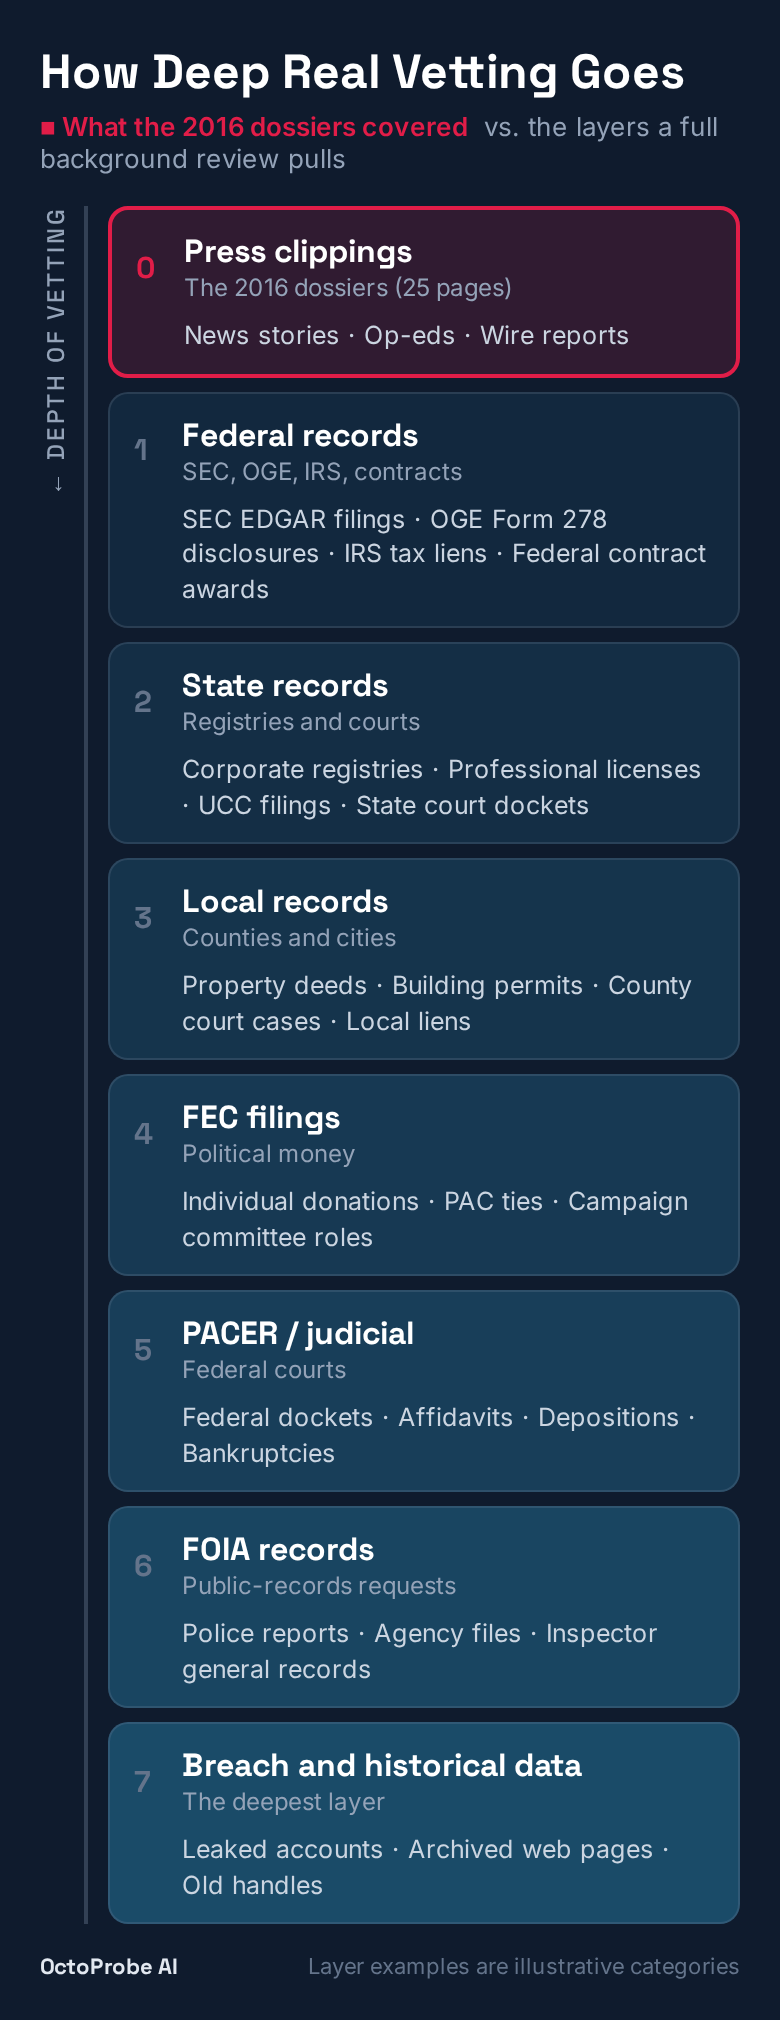
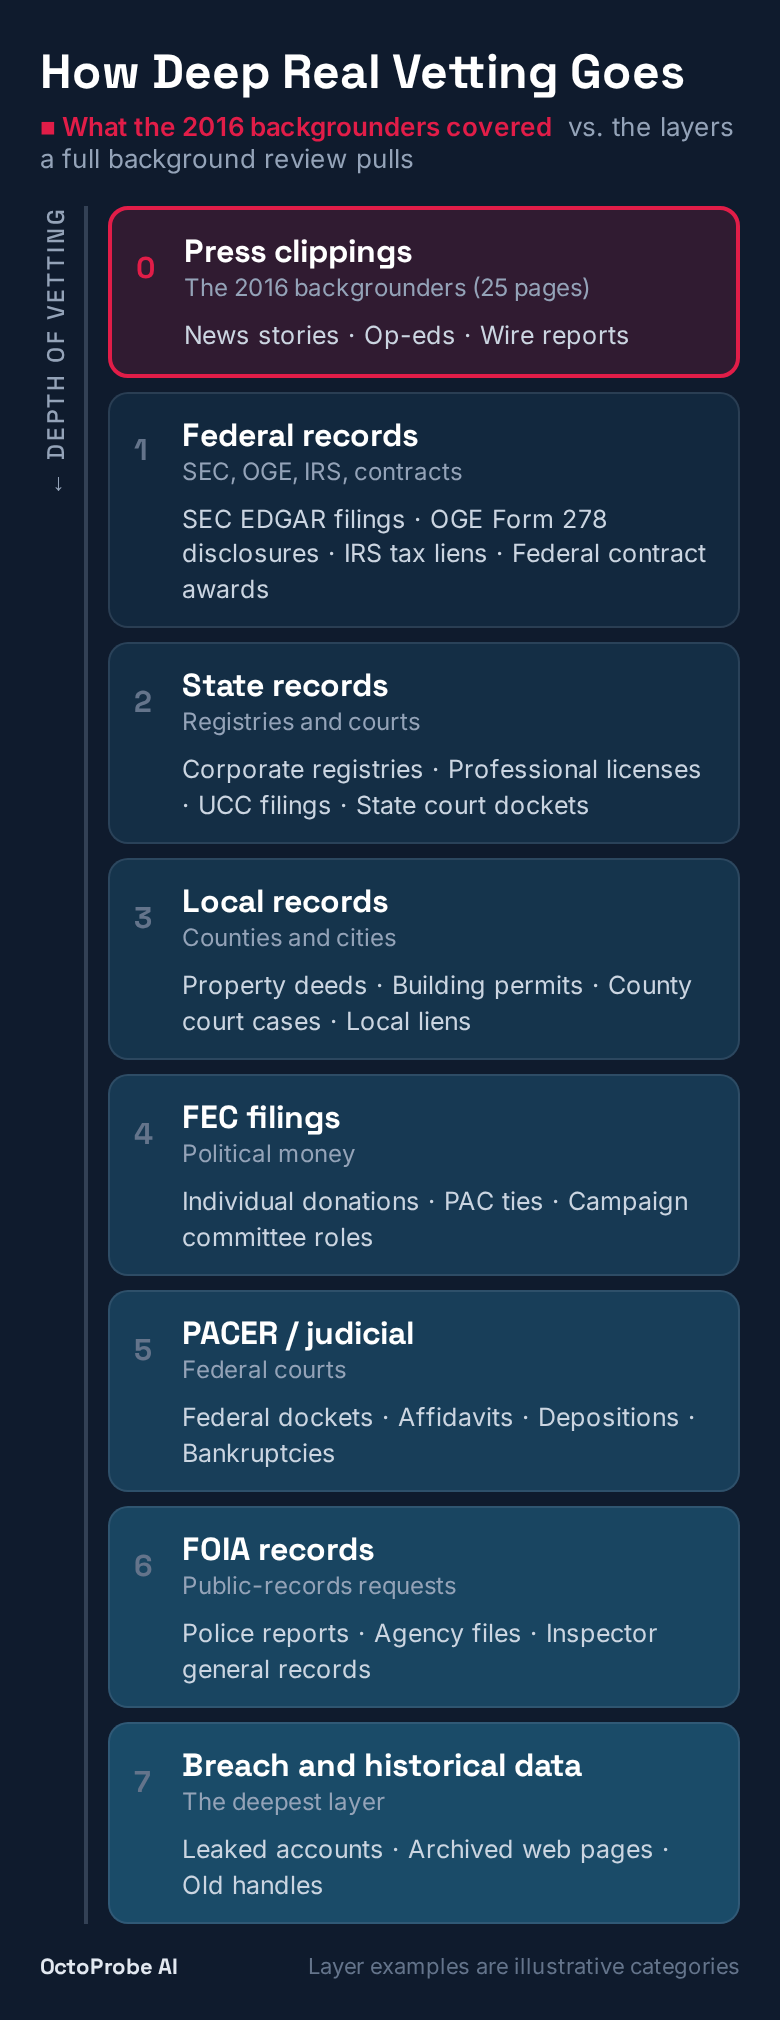
Blog: remove "dossier" site-wide (White House vetting post, identifier-graph post, blog index, llms.txt)
- White House vetting post: neutral wording ("business-ties research file",
  "file", "2016 backgrounders") in keywords meta, og:image:alt, alt text,
  captions, body and PDF embed labels.
- Rename giuliani-dossier-page-1.png -> giuliani-business-ties-research-page-1.png
  and giuliani-business-ties-dossier.pdf -> giuliani-business-ties-research.pdf;
  update every reference (img src, JSON-LD image, PDF embed/download links).
- Regenerate the 'How Deep Real Vetting Goes' infographic (desktop + mobile)
  with "backgrounders" in place of "dossiers".
- Identifier-graph post (md + html): "complete dossier" -> "complete picture".
- Blog index card and llms.txt (+ .well-known copy) wording.

DDoSecrets source URLs (RUDY%20GIULIANI%20...%20DOSSIER.pdf) are external and
unchanged, as is the source document's own title printed on page 1.

diff --git a/blog/white-house-vetting-leak-press-clips/index.html b/blog/white-house-vetting-leak-press-clips/index.html
@@ -5,7 +5,7 @@
 <meta name="viewport" content="width=device-width, initial-scale=1.0">
 <title>25 Pages of Press Clips: Thin White House Vetting · OctoProbe News</title>
 <meta name="description" content="Leaked transition files show White House vetting ran on 25-page clippings files, while the clearance system rewards speed and contracts over depth. Here is what real vetting pulls.">
-<meta name="keywords" content="Presidential Personnel Office, PPO, vetting, Trump transition leak, DDoSecrets, Giuliani dossier, security clearance, Tier 5, SF 86, OSINT">
+<meta name="keywords" content="Presidential Personnel Office, PPO, vetting, Trump transition leak, DDoSecrets, Giuliani business-ties research, security clearance, Tier 5, SF 86, OSINT">
 <meta name="author" content="Colin Aamot">
 <link rel="alternate" type="text/plain" title="LLM context (llms.txt)" href="/llms.txt">
 <link rel="alternate" type="text/plain" title="AI discovery (ai.txt)" href="/ai.txt">
@@ -18,7 +18,7 @@
 <meta property="og:image" content="https://www.octoprobe.ai/blog/white-house-vetting-leak-press-clips/assets/cover.png">
 <meta property="og:image:width" content="2400">
 <meta property="og:image:height" content="1260">
-<meta property="og:image:alt" content="25 Pages of Press Clips: page one of the leaked Giuliani dossier over a map of Washington">
+<meta property="og:image:alt" content="25 Pages of Press Clips: page one of the leaked Giuliani business-ties research file over a map of Washington">
 <meta property="article:published_time" content="2026-10-16">
 <meta property="article:modified_time" content="2026-10-16">
 <meta name="twitter:card" content="summary_large_image">
@@ -60,7 +60,7 @@
   },
   "image": [
     "https://www.octoprobe.ai/blog/white-house-vetting-leak-press-clips/assets/cover.png",
-    "https://www.octoprobe.ai/blog/white-house-vetting-leak-press-clips/assets/giuliani-dossier-page-1.png",
+    "https://www.octoprobe.ai/blog/white-house-vetting-leak-press-clips/assets/giuliani-business-ties-research-page-1.png",
     "https://www.octoprobe.ai/blog/white-house-vetting-leak-press-clips/assets/vetting-data-layers-depth-infographic.png"
   ],
   "mainEntityOfPage": {
@@ -235,10 +235,10 @@
   <article class="post-body">
     <div class="wrap">
       <div class="prose">
-<figure><img width="2400" height="1260" alt="Cover: 25 Pages of Press Clips headline beside page one of the leaked Giuliani business-ties dossier over a dark map of Washington, D.C." src="assets/cover.png" /><figcaption>Cover. Page one of the leaked Giuliani dossier over a map of Washington. Map &copy; OpenStreetMap contributors.</figcaption></figure>
+<figure><img width="2400" height="1260" alt="Cover: 25 Pages of Press Clips headline beside page one of the leaked Giuliani business-ties research file over a dark map of Washington, D.C." src="assets/cover.png" /><figcaption>Cover. Page one of the leaked Giuliani research file over a map of Washington. Map &copy; OpenStreetMap contributors.</figcaption></figure>
 <p class="answer-first">The White House vetted its 2016 appointees with newspaper clippings. Leaked transition files prove it. And the federal system meant to dig deeper rewards speed and contracts over depth.</p>
 <p>The Presidential Personnel Office (PPO), the White House shop that recruits and screens political appointees, controls more than four thousand jobs. Its 2016 files are public. They show a process built for speed, not depth.</p>
-<p>Take Rudy Giuliani. His business-ties dossier runs twenty-five pages. Nearly every line is a quote from a news story.</p>
+<p>Take Rudy Giuliani. His business-ties research file runs twenty-five pages. Nearly every line is a quote from a news story.</p>
 <h2>The Leak</h2>
 <p>Distributed Denial of Secrets (DDoSecrets), a nonprofit that archives leaked data, posted the set. It describes the files as &ldquo;<a href="https://ddosecrets.org/article/trump-transition-leak#:~:text=Dozens%20of%20documents%20from%20the%20Trump%20administration%20transition%2C%20including%20backgrounds%20and%20opposition">Dozens of documents from the Trump administration transition, including backgrounds and opposition research on potential Trump appointees.</a>&rdquo;</p>
 <p><em>Axios</em> first reported on the documents in 2019. It wrote that &ldquo;<a href="https://www.axios.com/2019/06/23/donald-trump-presidential-transition-vetting-rnc#:~:text=Trump%27s%20frazzled%20transition%20team%20foisted%20the%20job%20of%20political%20vetting%20onto%20the">Trump's frazzled transition team foisted the job of political vetting onto the Republican National Committee.</a>&rdquo;</p>
@@ -250,13 +250,13 @@
 <p>The RNC pushed back. Spokesman Mike Reed said: &ldquo;<a href="https://www.axios.com/2019/06/23/donald-trump-presidential-transition-vetting-rnc#:~:text=Individuals%20selected%20for%20high-level%20administration%20jobs%20would%20have%20gone%20through%20more%20thorough">Individuals selected for high-level administration jobs would have gone through more thorough background checks by lawyers, law enforcement agencies, and ethics officials before formally assuming their role.</a>&rdquo;</p>
 <h2>Glaring Issue Two: Clippings, Not Investigations</h2>
 <p>The <a href="https://data.ddosecrets.org/Trump%20Transition%20leak/">leak&rsquo;s index</a> holds forty-four backgrounders. OctoProbe downloaded every one and counted pages. The median file runs thirteen pages. The shortest runs four. The longest runs forty. The average is about fifteen.</p>
-<p>The <a href="https://data.ddosecrets.org/Trump%20Transition%20leak/RUDY%20GIULIANI%20BUSINESS%20TIES%20RESEARCH%20DOSSIER.pdf">Giuliani business-ties dossier</a> is twenty-five pages and 240 kilobytes. Its fifty-five citations point almost entirely to press coverage: <em>The New York Times</em>, the Associated Press, <em>The Wall Street Journal</em>, <em>Bloomberg</em>, <em>Forbes</em>, and <em>Politico</em>, among others.</p>
-<figure><img loading="lazy" width="1620" height="2006" alt="Page one of the Rudy Giuliani Business Ties Research Dossier, showing a table of contents and paragraphs each ending in a newspaper citation" src="assets/giuliani-dossier-page-1.png" /><figcaption>Page one of the Giuliani dossier. Each entry quotes a news story. Source: DDoSecrets.</figcaption></figure>
+<p>The <a href="https://data.ddosecrets.org/Trump%20Transition%20leak/RUDY%20GIULIANI%20BUSINESS%20TIES%20RESEARCH%20DOSSIER.pdf">Giuliani business-ties research file</a> is twenty-five pages and 240 kilobytes. Its fifty-five citations point almost entirely to press coverage: <em>The New York Times</em>, the Associated Press, <em>The Wall Street Journal</em>, <em>Bloomberg</em>, <em>Forbes</em>, and <em>Politico</em>, among others.</p>
+<figure><img loading="lazy" width="1620" height="2006" alt="Page one of the Rudy Giuliani business-ties research file, showing a table of contents and paragraphs each ending in a newspaper citation" src="assets/giuliani-business-ties-research-page-1.png" /><figcaption>Page one of the Giuliani research file. Each entry quotes a news story. Source: DDoSecrets.</figcaption></figure>
 <p>The RNC itself called the files &ldquo;<a href="https://www.axios.com/2019/06/23/donald-trump-presidential-transition-vetting-rnc#:~:text=initial%20pre-interview%20briefings%20put%20together%20to%20inform%20the%20transition%20team%20of%20top-line">initial pre-interview briefings put together to inform the transition team of top-line issues of note in the candidates' background.</a>&rdquo; That&rsquo;s the point. A top-line brief is where vetting should start, not end.</p>
-<p>Missing from the dossier: asset searches, court dockets and litigation history, property and corporate records, police reports obtained through the Freedom of Information Act (FOIA), breach data, and open-source intelligence (OSINT), meaning research from public data such as social accounts, registries, and archives.</p>
+<p>Missing from the file: asset searches, court dockets and litigation history, property and corporate records, police reports obtained through the Freedom of Information Act (FOIA), breach data, and open-source intelligence (OSINT), meaning research from public data such as social accounts, registries, and archives.</p>
 <p>A man with Giuliani&rsquo;s decades of foreign clients, law firms, and consulting deals would fill hundreds or thousands of pages under that kind of review. The process needs modernizing.</p>
-<p>Read the full dossier below.</p>
-<figure class="pdf-embed"><object data="assets/giuliani-business-ties-dossier.pdf" type="application/pdf" width="100%" height="760" aria-label="Embedded PDF: Rudy Giuliani Business Ties Research Dossier, 25 pages"><iframe src="assets/giuliani-business-ties-dossier.pdf" width="100%" height="760" title="Rudy Giuliani Business Ties Research Dossier (PDF, 25 pages)"></iframe></object><figcaption>Rudy Giuliani Business Ties Research Dossier, 25 pages, 240 KB. <a href="assets/giuliani-business-ties-dossier.pdf" download>Download the PDF</a> or view the <a href="https://data.ddosecrets.org/Trump%20Transition%20leak/RUDY%20GIULIANI%20BUSINESS%20TIES%20RESEARCH%20DOSSIER.pdf">DDoSecrets original</a>.</figcaption></figure>
+<p>Read the full file below.</p>
+<figure class="pdf-embed"><object data="assets/giuliani-business-ties-research.pdf" type="application/pdf" width="100%" height="760" aria-label="Embedded PDF: Rudy Giuliani business-ties research file, 25 pages"><iframe src="assets/giuliani-business-ties-research.pdf" width="100%" height="760" title="Rudy Giuliani business-ties research file (PDF, 25 pages)"></iframe></object><figcaption>Rudy Giuliani business-ties research file, 25 pages, 240 KB. <a href="assets/giuliani-business-ties-research.pdf" download>Download the PDF</a> or view the <a href="https://data.ddosecrets.org/Trump%20Transition%20leak/RUDY%20GIULIANI%20BUSINESS%20TIES%20RESEARCH%20DOSSIER.pdf">DDoSecrets original</a>.</figcaption></figure>
 <h2>Glaring Issue Three: Vetters Without Credentials</h2>
 <p>The office doing the vetting was thin, too. <em>The Washington Post</em> reported in 2018: &ldquo;<a href="https://www.washingtonpost.com/investigations/behind-the-chaos-office-that-vets-trump-appointees-plagued-by-inexperience/2018/03/30/cde31a1a-28a3-11e8-ab19-06a445a08c94_story.html#:~:text=From%20the%20start%2C%20the%20office%20struggled%20to%20keep%20pace%20with%20its%20enormous">From the start, the office struggled to keep pace with its enormous responsibilities, with only about 30 employees on hand, less than a third of the staffing in prior administrations, The Post found.</a>&rdquo;</p>
 <p>It added: &ldquo;<a href="https://www.washingtonpost.com/investigations/behind-the-chaos-office-that-vets-trump-appointees-plagued-by-inexperience/2018/03/30/cde31a1a-28a3-11e8-ab19-06a445a08c94_story.html#:~:text=Since%20the%20inauguration%2C%20most%20of%20the%20staffers%20in%20the%20PPO%20have%20been">Since the inauguration, most of the staffers in the PPO have been in their 20s, some with little professional experience apart from their work on Trump’s campaign, The Post found.</a>&rdquo;</p>
@@ -296,7 +296,7 @@
 <li><strong>Property and liens.</strong> County deed and lien records show holdings, debts, and unpaid taxes.</li>
 <li><strong>Police reports.</strong> FOIA and state open-records requests can pull incident reports that never made the news.</li>
 </ul>
-<figure><picture><source media="(max-width: 600px)" srcset="assets/vetting-data-layers-depth-infographic-mobile.png" width="780" height="2020"><img loading="lazy" width="2400" height="1746" src="assets/vetting-data-layers-depth-infographic.png" alt="Infographic titled How Deep Real Vetting Goes. Eight stacked layers run down a Depth of vetting axis. The top layer, highlighted in red as what the 2016 dossiers covered, is press clippings: the 2016 dossiers, 25 pages of news stories, op-eds, and wire reports. Below it: federal records (SEC EDGAR filings, OGE Form 278 disclosures, IRS tax liens, federal contract awards); state records (corporate registries, professional licenses, UCC filings, state court dockets); local records (property deeds, building permits, county court cases, local liens); FEC filings (individual donations, PAC ties, campaign committee roles); PACER and judicial records (federal dockets, affidavits, depositions, bankruptcies); FOIA records (police reports, agency files, inspector general records); and, deepest, breach and historical data (leaked accounts, archived web pages, old handles)." /></picture><figcaption>How deep real vetting goes. The 2016 dossiers covered only the top layer. Graphic: OctoProbe.</figcaption></figure>
+<figure><picture><source media="(max-width: 600px)" srcset="assets/vetting-data-layers-depth-infographic-mobile.png" width="780" height="2020"><img loading="lazy" width="2400" height="1746" src="assets/vetting-data-layers-depth-infographic.png" alt="Infographic titled How Deep Real Vetting Goes. Eight stacked layers run down a Depth of vetting axis. The top layer, highlighted in red as what the 2016 backgrounders covered, is press clippings: the 2016 backgrounders, 25 pages of news stories, op-eds, and wire reports. Below it: federal records (SEC EDGAR filings, OGE Form 278 disclosures, IRS tax liens, federal contract awards); state records (corporate registries, professional licenses, UCC filings, state court dockets); local records (property deeds, building permits, county court cases, local liens); FEC filings (individual donations, PAC ties, campaign committee roles); PACER and judicial records (federal dockets, affidavits, depositions, bankruptcies); FOIA records (police reports, agency files, inspector general records); and, deepest, breach and historical data (leaked accounts, archived web pages, old handles)." /></picture><figcaption>How deep real vetting goes. The 2016 backgrounders covered only the top layer. Graphic: OctoProbe.</figcaption></figure>
 <h3>Breach Data and the Blackmail Risk</h3>
 <p>The deepest layer is breach data, records stolen from websites and dumped online. It shows the reputational risks no clippings file will ever catch.</p>
 <p>When the cheating site Ashley Madison was hacked in 2015, <em>FedScoop</em> reported: &ldquo;<a href="https://fedscoop.com/more-than-15k-government-email-domains-found-in-ashley-madison-hack-data/#:~:text=More%20than%2015%2C000%20government%20and%20military%20email%20domains%20are%20among%20the%2036">More than 15,000 government and military email domains are among the 36 million email addresses released Tuesday night as part of the massive data breach associated with the online infidelity site.</a>&rdquo; It cautioned: &ldquo;<a href="https://fedscoop.com/more-than-15k-government-email-domains-found-in-ashley-madison-hack-data/#:~:text=Not%20every%20address%20is%20necessarily%20tied%20to%20an%20actual%20government%20employee.">Not every address is necessarily tied to an actual government employee.</a>&rdquo;</p>

diff --git a/blog/identifier-graph-osint-methodology/index.html b/blog/identifier-graph-osint-methodology/index.html
@@ -260,7 +260,7 @@
 <li>Teaching examples use fictional <strong>Mira Calden</strong> / <strong>Northline Example Labs</strong> only. Public OSINT first.</li>
 </ul></div>
 <h2 id="what-problem-does-an-identifier-graph-solve">What problem does an identifier graph solve?</h2>
-<p>Investigations rarely start with a complete dossier. They start with a thin public clue: an email on a company About page, a phone in a press release, a handle in a conference agenda, or a photo on a speaker bio. The craft is not “find everything.” It is disciplined expansion—turning that seed into a graph of identifiers, each edge backed by a source and a timestamp.</p>
+<p>Investigations rarely start with a complete picture. They start with a thin public clue: an email on a company About page, a phone in a press release, a handle in a conference agenda, or a photo on a speaker bio. The craft is not “find everything.” It is disciplined expansion—turning that seed into a graph of identifiers, each edge backed by a source and a timestamp.</p>
 <p>Without a graph, analysts drown in tabs. With a graph and no provenance, they invent confidence. With a graph that expands without a scope, they drown again—this time in nodes that look related and are not. The methodology below is how <strong>breach intelligence</strong>, account discovery, public records, and open-web pivots stay auditable—whether you run them by hand or inside OctoProbe’s live investigation graph and <a href="/#integration">MCP OSINT</a> toolkit.</p>
 <h2 id="where-investigations-actually-burn-time">Where investigations actually burn time</h2>
 <p>Most case leads do not lose the day on “running a search.” They lose it on what happens next.</p>

diff --git a/blog/index.html b/blog/index.html
@@ -417,7 +417,7 @@
               </div>
             </div>
             <h2>25 Pages of Press Clips: Leak Shows How Thin White House Vetting Really Was</h2>
-            <p class="excerpt">Leaked 2016 transition files show the White House screened top appointees with newspaper clippings. A 25-page Giuliani dossier shows how thin it was, and what a real background investigation covers.</p>
+            <p class="excerpt">Leaked 2016 transition files show the White House screened top appointees with newspaper clippings. A 25-page Giuliani research file shows how thin it was, and what a real background investigation covers.</p>
             <span class="read-more">Read the story →</span>
           </div>
         </a>

diff --git a/blog/posts/identifier-graph-osint-methodology.md b/blog/posts/identifier-graph-osint-methodology.md
@@ -44,7 +44,7 @@ Two failure modes show up again and again. **Manual** workflows spend most of th
 
 ## What problem does an identifier graph solve?
 
-Investigations rarely start with a complete dossier. They start with a thin public clue: an email on a company About page, a phone in a press release, a handle in a conference agenda, or a photo on a speaker bio. The craft is not “find everything.” It is disciplined expansion—turning that seed into a graph of identifiers, each edge backed by a source and a timestamp.
+Investigations rarely start with a complete picture. They start with a thin public clue: an email on a company About page, a phone in a press release, a handle in a conference agenda, or a photo on a speaker bio. The craft is not “find everything.” It is disciplined expansion—turning that seed into a graph of identifiers, each edge backed by a source and a timestamp.
 
 Without a graph, analysts drown in tabs. With a graph and no provenance, they invent confidence. With a graph that expands without a scope, they drown again—this time in nodes that look related and are not. The methodology below is how **breach intelligence**, account discovery, public records, and open-web pivots stay auditable—whether you run them by hand or inside OctoProbe’s live investigation graph and [MCP OSINT](/#integration) toolkit.
 
